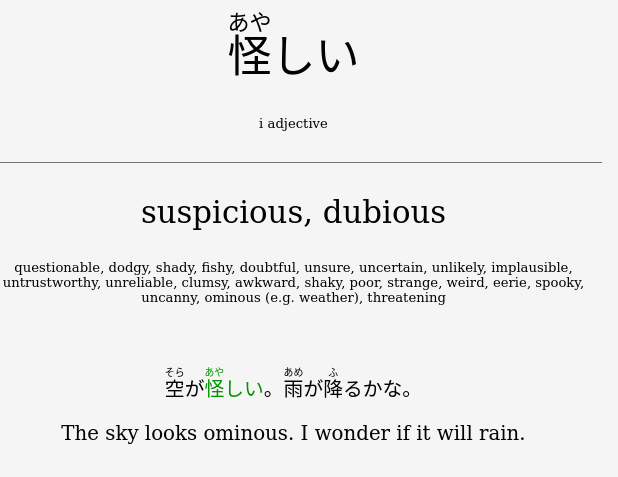
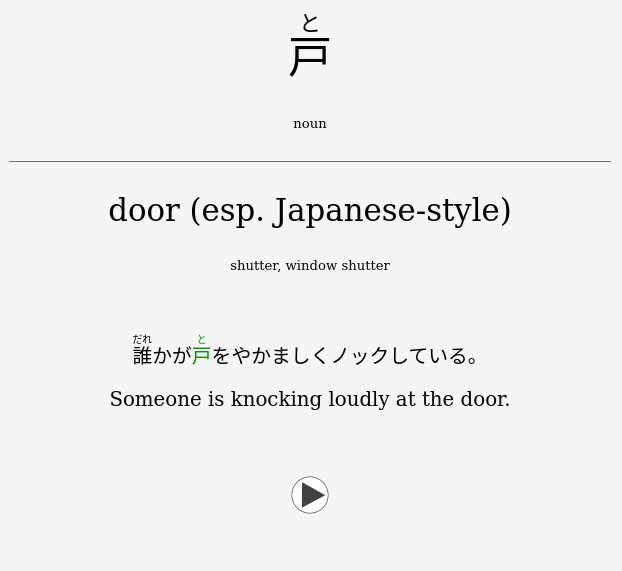
Choose a more simple example image

diff --git a/docs/anki_extended_description.md b/docs/anki_extended_description.md
@@ -48,7 +48,7 @@ Again, Anki has a wealth of customisation and it's easy to remove sentence infor
 
 <h4>Smaller deck size wanted</h4>
 
-An alternative to this deck is available at https://ankiweb.net/shared/info/1550984460. It contains the same words, just without any audio. Useful in case you don't want the larger deck size of this one.
+An alternative to this deck is available at <a href="https://ankiweb.net/shared/info/1550984460">https://ankiweb.net/shared/info/1550984460</a>. It contains the same words, just without any audio. Useful in case you don't want the larger deck size of this one.
 
 <h3>Open Source </h3>
 
